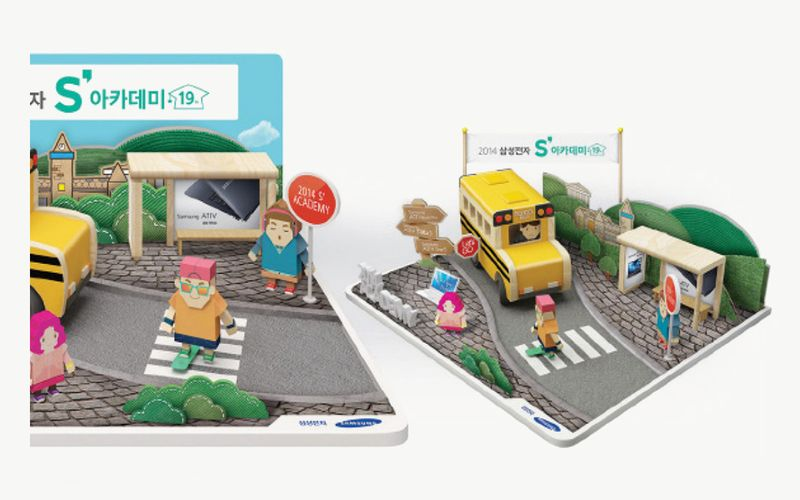
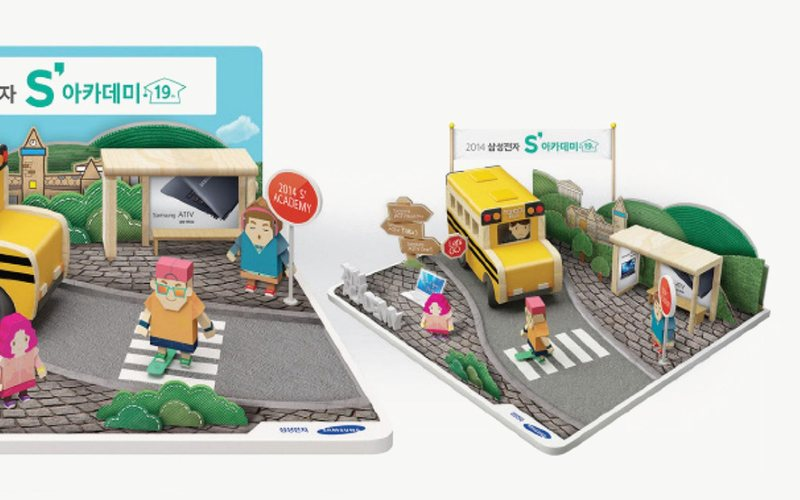
Classical Atlas 네이비·라디오까지 캡처, S아카데미 왼쪽 여백 제거

diff --git a/index.html b/index.html
@@ -572,6 +572,6 @@ form.brief { display: grid; gap: 28px; }
   <div class="lb-bot inner"><span class="label count" id="lbCount"></span><span class="label" style="color:var(--grey)">Sample visual</span></div>
 </div>
 
-<script src="data.js?v=20261121192938"></script>
-<script src="app.js?v=20261121192938"></script>
+<script src="data.js?v=20261121193512"></script>
+<script src="app.js?v=20261121193512"></script>
 </html>
